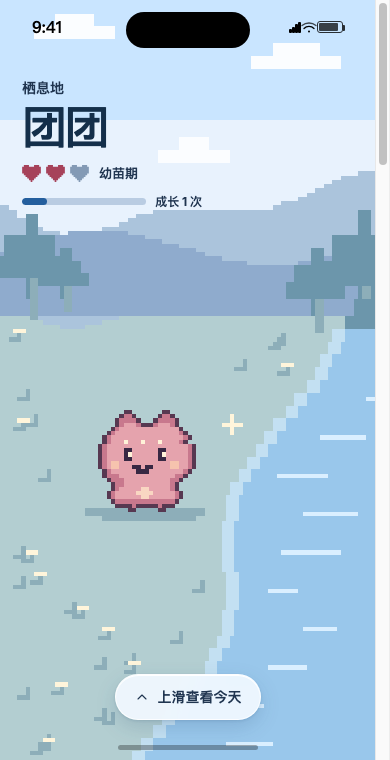
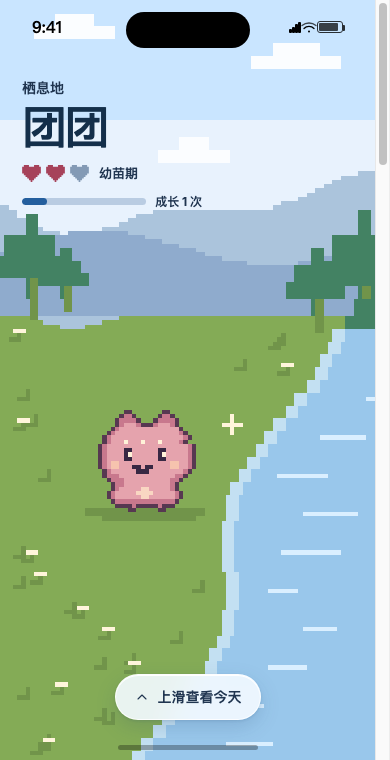
Restore natural greens in the pet habitat

diff --git a/design-demos/thumbs.html b/design-demos/thumbs.html
@@ -86,9 +86,18 @@ p { margin: 0; font-size: 14px; line-height: 1.5; }
   '.....IIIIGIIIIIGIII......',
   '........II.....II........'
 ];
+const gardenPalette = {
+  sky: '#b9dbe0', haze: '#d7e8d4', cloud: '#f5f2d5', far: '#94baa5', mid: '#73a783',
+  trees: '#438263', land: '#84ab56', lit: '#b3cb72', turf: '#71944a',
+  shore: '#a8c4be', water: '#80bdad', wave: '#bedfd0', flower: '#f9df95'
+};
 const palettes = {
-  garden: { sky: '#b9dbe0', haze: '#d7e8d4', cloud: '#f5f2d5', far: '#94baa5', mid: '#73a783', trees: '#438263', land: '#84ab56', lit: '#b3cb72', turf: '#71944a', shore: '#a8c4be', water: '#80bdad', wave: '#bedfd0', flower: '#f9df95' },
-  blueGarden: { sky: '#c9e5ff', haze: '#e8f2fd', cloud: '#fbfdff', far: '#abc4dc', mid: '#8fabcd', trees: '#6c96ab', land: '#b3ced1', lit: '#c9dfda', turf: '#8daeb9', shore: '#c3e0f2', water: '#99c7eb', wave: '#daefff', flower: '#fff5db' },
+  garden: gardenPalette,
+  blueGarden: {
+    ...gardenPalette,
+    sky: '#c9e5ff', haze: '#e8f2fd', cloud: '#fbfdff', far: '#abc4dc', mid: '#8fabcd',
+    shore: '#c3e0f2', water: '#99c7eb', wave: '#daefff', flower: '#fff5db'
+  },
   track: { sky: '#393758', haze: '#55486f', cloud: '#6f6688', far: '#555676', mid: '#4d607c', trees: '#3d506f', land: '#60767d', lit: '#93a697', turf: '#4e626d', shore: '#7999a7', water: '#596e98', wave: '#8f9dbb', flower: '#dec7f0' },
   diary: { sky: '#c2cbed', haze: '#e7dff7', cloud: '#f9edef', far: '#a7b1d1', mid: '#909cc3', trees: '#6d82ae', land: '#a2afc5', lit: '#c6cfdb', turf: '#879bbb', shore: '#c5cef0', water: '#a1b9df', wave: '#e3e8fb', flower: '#f8e4ab' },
   studio: { sky: '#edc39c', haze: '#f1d3ac', cloud: '#fff0d0', far: '#d1a381', mid: '#ba917c', trees: '#927757', land: '#c6a574', lit: '#dec08a', turf: '#af9469', shore: '#e1cbaa', water: '#ceae92', wave: '#efdbc5', flower: '#fbecba' },

diff --git a/design-demos/ios-prototype.html b/design-demos/ios-prototype.html
@@ -1036,9 +1036,18 @@ const sprite = [
   '.....IIIIGIIIIIGIII......',
   '........II.....II........'
 ];
+const gardenPalette = {
+  sky: '#b9dbe0', haze: '#d7e8d4', cloud: '#f5f2d5', far: '#94baa5', mid: '#73a783',
+  trees: '#438263', land: '#84ab56', lit: '#b3cb72', turf: '#71944a',
+  shore: '#a8c4be', water: '#80bdad', wave: '#bedfd0', flower: '#f9df95'
+};
 const palettes = {
-  garden: { sky: '#b9dbe0', haze: '#d7e8d4', cloud: '#f5f2d5', far: '#94baa5', mid: '#73a783', trees: '#438263', land: '#84ab56', lit: '#b3cb72', turf: '#71944a', shore: '#a8c4be', water: '#80bdad', wave: '#bedfd0', flower: '#f9df95' },
-  blueGarden: { sky: '#c9e5ff', haze: '#e8f2fd', cloud: '#fbfdff', far: '#abc4dc', mid: '#8fabcd', trees: '#6c96ab', land: '#b3ced1', lit: '#c9dfda', turf: '#8daeb9', shore: '#c3e0f2', water: '#99c7eb', wave: '#daefff', flower: '#fff5db' },
+  garden: gardenPalette,
+  blueGarden: {
+    ...gardenPalette,
+    sky: '#c9e5ff', haze: '#e8f2fd', cloud: '#fbfdff', far: '#abc4dc', mid: '#8fabcd',
+    shore: '#c3e0f2', water: '#99c7eb', wave: '#daefff', flower: '#fff5db'
+  },
   track: { sky: '#393758', haze: '#55486f', cloud: '#6f6688', far: '#555676', mid: '#4d607c', trees: '#3d506f', land: '#60767d', lit: '#93a697', turf: '#4e626d', shore: '#7999a7', water: '#596e98', wave: '#8f9dbb', flower: '#dec7f0' },
   diary: { sky: '#c2cbed', haze: '#e7dff7', cloud: '#f9edef', far: '#a7b1d1', mid: '#909cc3', trees: '#6d82ae', land: '#a2afc5', lit: '#c6cfdb', turf: '#879bbb', shore: '#c5cef0', water: '#a1b9df', wave: '#e3e8fb', flower: '#f8e4ab' },
   studio: { sky: '#edc39c', haze: '#f1d3ac', cloud: '#fff0d0', far: '#d1a381', mid: '#ba917c', trees: '#927757', land: '#c6a574', lit: '#dec08a', turf: '#af9469', shore: '#e1cbaa', water: '#ceae92', wave: '#efdbc5', flower: '#fbecba' },

diff --git a/design-demos/dir-1.html b/design-demos/dir-1.html
@@ -606,9 +606,18 @@ const sprite = [
   '.....IIIIGIIIIIGIII......',
   '........II.....II........'
 ];
+const gardenPalette = {
+  sky: '#b9dbe0', haze: '#d7e8d4', cloud: '#f5f2d5', far: '#94baa5', mid: '#73a783',
+  trees: '#438263', land: '#84ab56', lit: '#b3cb72', turf: '#71944a',
+  shore: '#a8c4be', water: '#80bdad', wave: '#bedfd0', flower: '#f9df95'
+};
 const palettes = {
-  garden: { sky: '#b9dbe0', haze: '#d7e8d4', cloud: '#f5f2d5', far: '#94baa5', mid: '#73a783', trees: '#438263', land: '#84ab56', lit: '#b3cb72', turf: '#71944a', shore: '#a8c4be', water: '#80bdad', wave: '#bedfd0', flower: '#f9df95' },
-  blueGarden: { sky: '#c9e5ff', haze: '#e8f2fd', cloud: '#fbfdff', far: '#abc4dc', mid: '#8fabcd', trees: '#6c96ab', land: '#b3ced1', lit: '#c9dfda', turf: '#8daeb9', shore: '#c3e0f2', water: '#99c7eb', wave: '#daefff', flower: '#fff5db' },
+  garden: gardenPalette,
+  blueGarden: {
+    ...gardenPalette,
+    sky: '#c9e5ff', haze: '#e8f2fd', cloud: '#fbfdff', far: '#abc4dc', mid: '#8fabcd',
+    shore: '#c3e0f2', water: '#99c7eb', wave: '#daefff', flower: '#fff5db'
+  },
   track: { sky: '#393758', haze: '#55486f', cloud: '#6f6688', far: '#555676', mid: '#4d607c', trees: '#3d506f', land: '#60767d', lit: '#93a697', turf: '#4e626d', shore: '#7999a7', water: '#596e98', wave: '#8f9dbb', flower: '#dec7f0' },
   diary: { sky: '#c2cbed', haze: '#e7dff7', cloud: '#f9edef', far: '#a7b1d1', mid: '#909cc3', trees: '#6d82ae', land: '#a2afc5', lit: '#c6cfdb', turf: '#879bbb', shore: '#c5cef0', water: '#a1b9df', wave: '#e3e8fb', flower: '#f8e4ab' },
   studio: { sky: '#edc39c', haze: '#f1d3ac', cloud: '#fff0d0', far: '#d1a381', mid: '#ba917c', trees: '#927757', land: '#c6a574', lit: '#dec08a', turf: '#af9469', shore: '#e1cbaa', water: '#ceae92', wave: '#efdbc5', flower: '#fbecba' },

diff --git a/design-demos/dir-2.html b/design-demos/dir-2.html
@@ -606,9 +606,18 @@ const sprite = [
   '.....IIIIGIIIIIGIII......',
   '........II.....II........'
 ];
+const gardenPalette = {
+  sky: '#b9dbe0', haze: '#d7e8d4', cloud: '#f5f2d5', far: '#94baa5', mid: '#73a783',
+  trees: '#438263', land: '#84ab56', lit: '#b3cb72', turf: '#71944a',
+  shore: '#a8c4be', water: '#80bdad', wave: '#bedfd0', flower: '#f9df95'
+};
 const palettes = {
-  garden: { sky: '#b9dbe0', haze: '#d7e8d4', cloud: '#f5f2d5', far: '#94baa5', mid: '#73a783', trees: '#438263', land: '#84ab56', lit: '#b3cb72', turf: '#71944a', shore: '#a8c4be', water: '#80bdad', wave: '#bedfd0', flower: '#f9df95' },
-  blueGarden: { sky: '#c9e5ff', haze: '#e8f2fd', cloud: '#fbfdff', far: '#abc4dc', mid: '#8fabcd', trees: '#6c96ab', land: '#b3ced1', lit: '#c9dfda', turf: '#8daeb9', shore: '#c3e0f2', water: '#99c7eb', wave: '#daefff', flower: '#fff5db' },
+  garden: gardenPalette,
+  blueGarden: {
+    ...gardenPalette,
+    sky: '#c9e5ff', haze: '#e8f2fd', cloud: '#fbfdff', far: '#abc4dc', mid: '#8fabcd',
+    shore: '#c3e0f2', water: '#99c7eb', wave: '#daefff', flower: '#fff5db'
+  },
   track: { sky: '#393758', haze: '#55486f', cloud: '#6f6688', far: '#555676', mid: '#4d607c', trees: '#3d506f', land: '#60767d', lit: '#93a697', turf: '#4e626d', shore: '#7999a7', water: '#596e98', wave: '#8f9dbb', flower: '#dec7f0' },
   diary: { sky: '#c2cbed', haze: '#e7dff7', cloud: '#f9edef', far: '#a7b1d1', mid: '#909cc3', trees: '#6d82ae', land: '#a2afc5', lit: '#c6cfdb', turf: '#879bbb', shore: '#c5cef0', water: '#a1b9df', wave: '#e3e8fb', flower: '#f8e4ab' },
   studio: { sky: '#edc39c', haze: '#f1d3ac', cloud: '#fff0d0', far: '#d1a381', mid: '#ba917c', trees: '#927757', land: '#c6a574', lit: '#dec08a', turf: '#af9469', shore: '#e1cbaa', water: '#ceae92', wave: '#efdbc5', flower: '#fbecba' },

diff --git a/design-demos/dir-3.html b/design-demos/dir-3.html
@@ -606,9 +606,18 @@ const sprite = [
   '.....IIIIGIIIIIGIII......',
   '........II.....II........'
 ];
+const gardenPalette = {
+  sky: '#b9dbe0', haze: '#d7e8d4', cloud: '#f5f2d5', far: '#94baa5', mid: '#73a783',
+  trees: '#438263', land: '#84ab56', lit: '#b3cb72', turf: '#71944a',
+  shore: '#a8c4be', water: '#80bdad', wave: '#bedfd0', flower: '#f9df95'
+};
 const palettes = {
-  garden: { sky: '#b9dbe0', haze: '#d7e8d4', cloud: '#f5f2d5', far: '#94baa5', mid: '#73a783', trees: '#438263', land: '#84ab56', lit: '#b3cb72', turf: '#71944a', shore: '#a8c4be', water: '#80bdad', wave: '#bedfd0', flower: '#f9df95' },
-  blueGarden: { sky: '#c9e5ff', haze: '#e8f2fd', cloud: '#fbfdff', far: '#abc4dc', mid: '#8fabcd', trees: '#6c96ab', land: '#b3ced1', lit: '#c9dfda', turf: '#8daeb9', shore: '#c3e0f2', water: '#99c7eb', wave: '#daefff', flower: '#fff5db' },
+  garden: gardenPalette,
+  blueGarden: {
+    ...gardenPalette,
+    sky: '#c9e5ff', haze: '#e8f2fd', cloud: '#fbfdff', far: '#abc4dc', mid: '#8fabcd',
+    shore: '#c3e0f2', water: '#99c7eb', wave: '#daefff', flower: '#fff5db'
+  },
   track: { sky: '#393758', haze: '#55486f', cloud: '#6f6688', far: '#555676', mid: '#4d607c', trees: '#3d506f', land: '#60767d', lit: '#93a697', turf: '#4e626d', shore: '#7999a7', water: '#596e98', wave: '#8f9dbb', flower: '#dec7f0' },
   diary: { sky: '#c2cbed', haze: '#e7dff7', cloud: '#f9edef', far: '#a7b1d1', mid: '#909cc3', trees: '#6d82ae', land: '#a2afc5', lit: '#c6cfdb', turf: '#879bbb', shore: '#c5cef0', water: '#a1b9df', wave: '#e3e8fb', flower: '#f8e4ab' },
   studio: { sky: '#edc39c', haze: '#f1d3ac', cloud: '#fff0d0', far: '#d1a381', mid: '#ba917c', trees: '#927757', land: '#c6a574', lit: '#dec08a', turf: '#af9469', shore: '#e1cbaa', water: '#ceae92', wave: '#efdbc5', flower: '#fbecba' },

diff --git a/design-demos/src/pixels.js b/design-demos/src/pixels.js
@@ -24,9 +24,18 @@ const sprite = [
   '.....IIIIGIIIIIGIII......',
   '........II.....II........'
 ];
+const gardenPalette = {
+  sky: '#b9dbe0', haze: '#d7e8d4', cloud: '#f5f2d5', far: '#94baa5', mid: '#73a783',
+  trees: '#438263', land: '#84ab56', lit: '#b3cb72', turf: '#71944a',
+  shore: '#a8c4be', water: '#80bdad', wave: '#bedfd0', flower: '#f9df95'
+};
 const palettes = {
-  garden: { sky: '#b9dbe0', haze: '#d7e8d4', cloud: '#f5f2d5', far: '#94baa5', mid: '#73a783', trees: '#438263', land: '#84ab56', lit: '#b3cb72', turf: '#71944a', shore: '#a8c4be', water: '#80bdad', wave: '#bedfd0', flower: '#f9df95' },
-  blueGarden: { sky: '#c9e5ff', haze: '#e8f2fd', cloud: '#fbfdff', far: '#abc4dc', mid: '#8fabcd', trees: '#6c96ab', land: '#b3ced1', lit: '#c9dfda', turf: '#8daeb9', shore: '#c3e0f2', water: '#99c7eb', wave: '#daefff', flower: '#fff5db' },
+  garden: gardenPalette,
+  blueGarden: {
+    ...gardenPalette,
+    sky: '#c9e5ff', haze: '#e8f2fd', cloud: '#fbfdff', far: '#abc4dc', mid: '#8fabcd',
+    shore: '#c3e0f2', water: '#99c7eb', wave: '#daefff', flower: '#fff5db'
+  },
   track: { sky: '#393758', haze: '#55486f', cloud: '#6f6688', far: '#555676', mid: '#4d607c', trees: '#3d506f', land: '#60767d', lit: '#93a697', turf: '#4e626d', shore: '#7999a7', water: '#596e98', wave: '#8f9dbb', flower: '#dec7f0' },
   diary: { sky: '#c2cbed', haze: '#e7dff7', cloud: '#f9edef', far: '#a7b1d1', mid: '#909cc3', trees: '#6d82ae', land: '#a2afc5', lit: '#c6cfdb', turf: '#879bbb', shore: '#c5cef0', water: '#a1b9df', wave: '#e3e8fb', flower: '#f8e4ab' },
   studio: { sky: '#edc39c', haze: '#f1d3ac', cloud: '#fff0d0', far: '#d1a381', mid: '#ba917c', trees: '#927757', land: '#c6a574', lit: '#dec08a', turf: '#af9469', shore: '#e1cbaa', water: '#ceae92', wave: '#efdbc5', flower: '#fbecba' },

diff --git a/design-demos/README.md b/design-demos/README.md
@@ -8,7 +8,7 @@
 
 「记录」顶部的热力图根据演示训练记录显示近 12 周的每日训练次数。点击有颜色的日期可查看当天记录，切换手动或设备来源会同步更新热力图与训练列表。
 
-界面以白色和浅蓝色为主。在手机内滚动时，内容会穿过半透明底栏。点选标签时，浅蓝色玻璃胶囊滑到当前标签。点击「记录训练」或右上角的提醒按钮，可体验从控件展开的弹层。浏览器原型用 CSS 和 Web Animations 模拟 iOS 材质与转场，支持减少动态效果、减少透明度和高对比度偏好。
+界面控件以白色和浅蓝色为主，栖息地的草地和树木使用自然绿色。在手机内滚动时，内容会穿过半透明底栏。点选标签时，浅蓝色玻璃胶囊滑到当前标签。点击「记录训练」或右上角的提醒按钮，可体验从控件展开的弹层。浏览器原型用 CSS 和 Web Animations 模拟 iOS 材质与转场，支持减少动态效果、减少透明度和高对比度偏好。
 
 ## 试用路径
 
